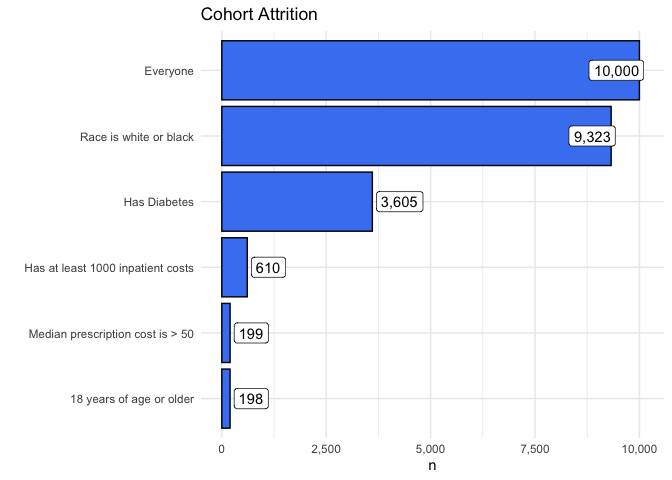
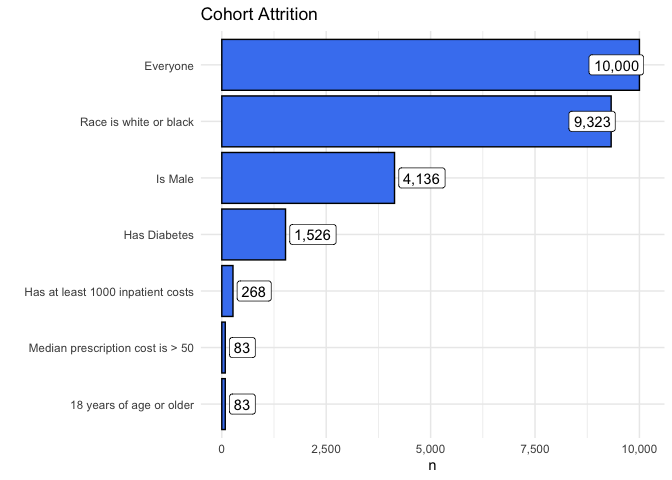
- Updated assertion labels to be more accessible. - Updated roxygen documentation for etl functions. (missing param info) - Included a Male inclusion criteria to be albe to call back to some early checks - included a line to dive into one of the expectation functions, so that the audiance can see it

diff --git a/demo.md b/demo.md
@@ -32,21 +32,21 @@ patients_interrogation %>%
 
     ## ✔ All Pass No failures across all 13 Tests!
 
-| fail_n | test                                             | column         | any_fail |
-|-------:|:-------------------------------------------------|:---------------|:---------|
-|      0 | Key columns exist                                | birth_dt       | FALSE    |
-|      0 | No one born before 01-01-1900                    | birth_dt       | FALSE    |
-|      0 | Key columns exist                                | cncr           | FALSE    |
-|      0 | Expect both patients with and without cancer     | cncr           | FALSE    |
-|      0 | Key columns exist                                | death_dt       | FALSE    |
-|      0 | No one born before 01-01-1900                    | death_dt       | FALSE    |
-|      0 | Expect both patients with and without death info | death_observed | FALSE    |
-|      0 | Key columns exist                                | desynpuf_id    | FALSE    |
-|      0 | Table is ORPP                                    | desynpuf_id    | FALSE    |
-|      0 | Key columns exist                                | diabetes       | FALSE    |
-|      0 | Key columns exist                                | race_cd        | FALSE    |
-|      0 | Key columns exist                                | sex_ident_cd   | FALSE    |
-|      0 | Expect both Male and Female patients             | sex_ident_cd   | FALSE    |
+| fail_n | test                                              | column         | any_fail |
+|-------:|:--------------------------------------------------|:---------------|:---------|
+|      0 | Key columns exist                                 | birth_dt       | FALSE    |
+|      0 | Everyone born after 01-01-1900                    | birth_dt       | FALSE    |
+|      0 | Key columns exist                                 | cncr           | FALSE    |
+|      0 | Dataset contains patients with and without cancer | cncr           | FALSE    |
+|      0 | Key columns exist                                 | death_dt       | FALSE    |
+|      0 | Everyone born after 01-01-1900                    | death_dt       | FALSE    |
+|      0 | Dataset contains alive and dead patients          | death_observed | FALSE    |
+|      0 | Key columns exist                                 | desynpuf_id    | FALSE    |
+|      0 | Dataset has only One Row Per Patient (OORP)       | desynpuf_id    | FALSE    |
+|      0 | Key columns exist                                 | diabetes       | FALSE    |
+|      0 | Key columns exist                                 | race_cd        | FALSE    |
+|      0 | Key columns exist                                 | sex_ident_cd   | FALSE    |
+|      0 | Dataset contains both Male and Female patients    | sex_ident_cd   | FALSE    |
 
 ## Inpatient
 
@@ -124,10 +124,10 @@ orpp_interrogation %>%
 
     ## ✔ All Pass No failures across all 2 Tests!
 
-| fail_n | test                                  | column         | any_fail |
-|-------:|:--------------------------------------|:---------------|:---------|
-|      0 | Table is ORPP                         | desynpuf_id    | FALSE    |
-|      0 | No patient has negative survival time | survival_years | FALSE    |
+| fail_n | test                                        | column         | any_fail |
+|-------:|:--------------------------------------------|:---------------|:---------|
+|      0 | Dataset has only One Row Per Patient (OORP) | desynpuf_id    | FALSE    |
+|      0 | No patient has negative survival time       | survival_years | FALSE    |
 
 # Cohort
 
@@ -136,6 +136,7 @@ attrition_table <-
   create_attrition(
     orpp_tbl,
     "Race is white or black" = race_cd %in% c("White", "Black"),
+    "Is Male" = sex_ident_cd == 'Male',
     "Has Diabetes" = diabetes == TRUE,
     "Has at least 1000 inpatient costs" = inpatient_payment_median >= 10000,
     "Median prescription cost is > 50" = prescription_rx_cost_median > 20,
@@ -151,10 +152,11 @@ attrition_table %>%
 |:----------------------------------|------:|----------:|
 | Everyone                          | 10000 |        NA |
 | Race is white or black            |  9323 |      -677 |
-| Has Diabetes                      |  3605 |     -5718 |
-| Has at least 1000 inpatient costs |   610 |     -2995 |
-| Median prescription cost is \> 50 |   199 |      -411 |
-| 18 years of age or older          |   198 |        -1 |
+| Is Male                           |  4136 |     -5187 |
+| Has Diabetes                      |  1526 |     -2610 |
+| Has at least 1000 inpatient costs |   268 |     -1258 |
+| Median prescription cost is \> 50 |    83 |      -185 |
+| 18 years of age or older          |    83 |         0 |
 
 ``` r
 # Plot an attrition chart
@@ -168,6 +170,7 @@ attrition_table %>%
 cohort_tbl <- orpp_tbl %>%
   filter(
     race_cd %in% c("White", "Black"),
+    sex_ident_cd == 'Male',
     diabetes == TRUE,
     inpatient_payment_median >= 10000,
     prescription_rx_cost_median > 20,
